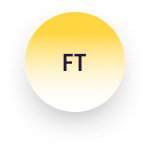
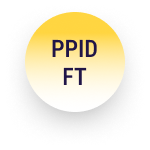
tambah ppid pelaksana

Changed region(s): [[0.3467, 0.24, 0.6667, 0.5867]]

diff --git a/PPID UNESA/ppidpelaksana.html b/PPID UNESA/ppidpelaksana.html
@@ -7,69 +7,69 @@
     <meta name="viewport" content="width=device-width, initial-scale=1.0">
     <title>Formulir Permohonan</title>
     <link rel="stylesheet" href="css/bootstrap.css">
-    
+
 </head>
 
 <body>
-    <div class="container">
-        <br>
-        <div style="height: 125px;" id="myCarousel" class="carousel slide" data-ride="carousel">
-            <!-- Indicators -->
-            <ol class="carousel-indicators">
-                <li data-target="#myCarousel" data-slide-to="0" class="active"></li>
-                <li data-target="#myCarousel" data-slide-to="1"></li>
-                <li data-target="#myCarousel" data-slide-to="2"></li>
-                <li data-target="#myCarousel" data-slide-to="3"></li>
-            </ol>
+    <h1 style="text-align: center;">Berdasarkan SK Rektor <nomor sk> ppid pelaksana merupakan fakultas dan direktorat
+            selingkung unesa
+    </h1>
+    <h3 style="text-align: center;" class="w3-center">List PPID Pelaksana Fakultas</h3>
+    <br>
 
-            <!-- Wrapper for slides -->
-            <div class="carousel-inner" role="listbox" style="height: 100%;">
-
-                <div class="item active" >
-                    <img style="margin: auto;" src="Group 539.png" alt="Chania" >
-                    <div class="carousel-caption">
-                        <h3>Chania</h3>
-                        <p>The atmosphere in Chania has a touch of Florence and Venice.</p>
-                    </div>
-                </div>
-
-                <div class="item">
-                    <img src="img_chania2.jpg" alt="Chania">
-                    <div class="carousel-caption">
-                        <h3>Chania</h3>
-                        <p>The atmosphere in Chania has a touch of Florence and Venice.</p>
-                    </div>
-                </div>
-
-                <div class="item">
-                    <img src="img_flower.jpg" alt="Flower">
-                    <div class="carousel-caption">
-                        <h3>Flowers</h3>
-                        <p>Beautiful flowers in Kolymbari, Crete.</p>
-                    </div>
-                </div>
-
-                <div class="item">
-                    <img src="img_flower2.jpg" alt="Flower">
-                    <div class="carousel-caption">
-                        <h3>Flowers</h3>
-                        <p>Beautiful flowers in Kolymbari, Crete.</p>
-                    </div>
-                </div>
-
-            </div>
-
-            <!-- Left and right controls -->
-            <a class="left carousel-control" href="#myCarousel" role="button" data-slide="prev">
-                <span class="glyphicon glyphicon-chevron-left" aria-hidden="true"></span>
-                <span class="sr-only">Previous</span>
-            </a>
-            <a class="right carousel-control" href="#myCarousel" role="button" data-slide="next">
-                <span class="glyphicon glyphicon-chevron-right" aria-hidden="true"></span>
-                <span class="sr-only">Next</span>
-            </a>
+    <div class="w3-content w3-section" style="width:100%;">
+        <div style="text-align: center;" class="mySlides">
+            <a href="https://ft.unesa.ac.id/page/ppid-fakultas-teknik"><img
+                    src="https://statik.unesa.ac.id/profileunesa_konten_statik/uploads/ppid/file/2d2df772-0f96-4e16-8ef5-35c4d6a449bc.png"
+                    style="width:10%"></a>
+            <a href="https://feb.unesa.ac.id/page/ppid/"><img
+                    src="https://statik.unesa.ac.id/profileunesa_konten_statik/uploads/ppid/file/95310c39-b51b-4275-9c79-7c2d9aaadeb0.png"
+                    style="width:10%"></a>
+            <a href="https://fish.unesa.ac.id/page/ppid-fakultas"><img
+                    src="https://statik.unesa.ac.id/profileunesa_konten_statik/uploads/ppid/file/00faa080-06c0-4e68-91da-8e6d414de35e.png"
+                    style="width:10%"></a>
+            <a href="https://fmipa.unesa.ac.id/"><img
+                    src="https://statik.unesa.ac.id/profileunesa_konten_statik/uploads/ppid/file/552e7ca9-99c2-47b8-a42a-9292d6b6c318.png"
+                    style="width:10%"></a>
+            <a href="https://www.unesa.ac.id/"><img
+                    src="https://statik.unesa.ac.id/profileunesa_konten_statik/uploads/ppid/file/a102e84e-a796-4319-991c-df9f5c0250a2.png"
+                    style="width:10%"></a>
+        </div>
+        <div style="text-align: center;" class="mySlides">
+            <a href="https://ppid.unesa.ac.id/"><img
+                    src="https://statik.unesa.ac.id/profileunesa_konten_statik/uploads/ppid/file/26f06466-37ae-4f73-a671-80cba1cd6d40.png"
+                    style="width:10%"></a>
+            <a href="https://fip.unesa.ac.id/"><img
+                    src="https://statik.unesa.ac.id/profileunesa_konten_statik/uploads/ppid/file/8815d369-81da-460c-af94-f4806de058e5.png"
+                    style="width:10%"></a>
+            <a href="https://fbs.unesa.ac.id/"><img
+                    src="https://statik.unesa.ac.id/profileunesa_konten_statik/uploads/ppid/file/bb023115-d7fc-4eda-9bf6-5fabe714d105.png"
+                    style="width:10%"></a>
+            <a href="https://www.unesa.ac.id/"><img
+                    src="https://statik.unesa.ac.id/profileunesa_konten_statik/uploads/ppid/file/fbb88389-63ea-4b78-8b4c-c9e62f394a63.png"
+                    style="width:10%"></a>
+            <a href="https://www.unesa.ac.id/"><img
+                    src="https://statik.unesa.ac.id/profileunesa_konten_statik/uploads/ppid/file/41dd658d-f894-4eff-b63b-ae279e49b38b.png"
+                    style="width:10%"></a>
         </div>
     </div>
+
+    <script>
+        var myIndex = 0;
+        carousel();
+
+        function carousel() {
+            var i;
+            var x = document.getElementsByClassName("mySlides");
+            for (i = 0; i < x.length; i++) {
+                x[i].style.display = "none";
+            }
+            myIndex++;
+            if (myIndex > x.length) { myIndex = 1 }
+            x[myIndex - 1].style.display = "block";
+            setTimeout(carousel, 2500); // Change image every 2 seconds
+        }
+    </script>
     <!-- jQuery (necessary for Bootstrap's JavaScript plugins) -->
     <script src="https://ajax.googleapis.com/ajax/libs/jquery/1.12.4/jquery.min.js"></script>
     <!-- Include all compiled plugins (below), or include individual files as needed -->
